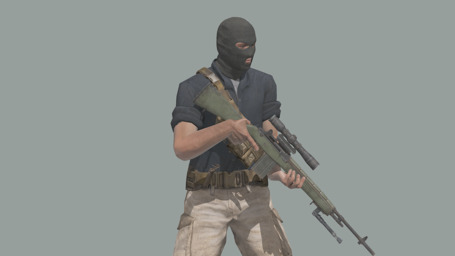
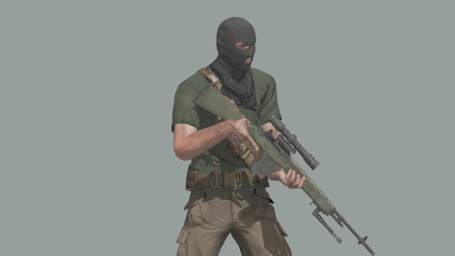
Various config and data updates

diff --git a/MU_ISAS/UnitsConfig.hpp b/MU_ISAS/UnitsConfig.hpp
@@ -20,8 +20,8 @@
 		scopeCurator = 2;
 		displayName = $STR_MU_units_islam_R1;
 		uniformClass = "U_MU_O_GuerillaGarment_grey";
-		linkedItems[] = {"V_TacVest_oli", "G_Balaclava_blk", "ItemMap", "ItemCompass", "ItemWatch", "ItemRadio"};
-		respawnLinkedItems[] = {"V_TacVest_oli", "G_Balaclava_blk", "ItemMap", "ItemCompass", "ItemWatch", "ItemRadio"};
+		linkedItems[] = {"V_MU_Chestrig_light_khk", "G_Balaclava_blk", "ItemMap", "ItemCompass", "ItemWatch", "ItemRadio"};
+		respawnLinkedItems[] = {"V_MU_Chestrig_light_khk", "G_Balaclava_blk", "ItemMap", "ItemCompass", "ItemWatch", "ItemRadio"};
 		weapons[] = {"arifle_AKM_F", "hgun_Rook40_F", "Throw", "Put"};
 		respawnweapons[] = {"arifle_AKM_F", "hgun_Rook40_F", "Throw", "Put"};
 		magazines[] = {"30Rnd_762x39_Mag_F", "30Rnd_762x39_Mag_F", "30Rnd_762x39_Mag_F", "30Rnd_762x39_Mag_F", "30Rnd_762x39_Mag_F", "30Rnd_762x39_Mag_F", "30Rnd_762x39_Mag_F", "16Rnd_9x21_Mag", "16Rnd_9x21_Mag", "16Rnd_9x21_Mag", "HandGrenade", "HandGrenade", "SmokeShell", "SmokeShellGreen", "Chemlight_red", "Chemlight_red"};
@@ -161,8 +161,8 @@
 		displayName = $STR_MU_units_islam_HAT;
 		uniformClass = "U_MU_O_GuerillaGarment3_olive";
 		backpack = "B_MU_IS_Carryall_khk_HAT";
-		linkedItems[] = {"V_TacChestrig_grn_F", "H_Bandanna_cbr", "ItemMap", "ItemCompass", "ItemWatch", "ItemRadio"};
-		respawnLinkedItems[] = {"V_TacChestrig_grn_F", "H_Bandanna_cbr", "ItemMap", "ItemCompass", "ItemWatch", "ItemRadio"};
+		linkedItems[] = {"V_MU_Chestrig_light_khk", "H_Bandanna_cbr", "ItemMap", "ItemCompass", "ItemWatch", "ItemRadio"};
+		respawnLinkedItems[] = {"V_MU_Chestrig_light_khk", "H_Bandanna_cbr", "ItemMap", "ItemCompass", "ItemWatch", "ItemRadio"};
 		weapons[] = {"arifle_AKM_F", "launch_O_Vorona_brown_F", "hgun_Rook40_F", "Throw", "Put"};
 		respawnweapons[] = {"arifle_AKM_F", "launch_O_Vorona_brown_F", "hgun_Rook40_F", "Throw", "Put"};
 		magazines[] = { "30Rnd_762x39_Mag_F", "30Rnd_762x39_Mag_F", "30Rnd_762x39_Mag_F", "30Rnd_762x39_Mag_F", "30Rnd_762x39_Mag_F", "30Rnd_762x39_Mag_F", "Vorona_HEAT", "16Rnd_9x21_Mag", "16Rnd_9x21_Mag", "16Rnd_9x21_Mag", "HandGrenade", "SmokeShell", "SmokeShellGreen"};
@@ -182,8 +182,8 @@
 		secondaryAmmoCoef = 0.5;
 		uniformClass = "U_MU_O_GuerillaGarment_grey";
 		backpack = "B_MU_IS_AssaultPack_dgtl_AA";
-		linkedItems[] = {"V_TacVest_camo", "H_Bandanna_sand", "G_Bandanna_tan", "ItemMap", "ItemCompass", "ItemWatch", "ItemRadio"};
-		respawnLinkedItems[] = {"V_TacVest_camo", "H_Bandanna_sand", "G_Bandanna_tan", "ItemMap", "ItemCompass", "ItemWatch", "ItemRadio"};
+		linkedItems[] = {"V_MU_Chestrig_light_khk", "H_Bandanna_sand", "G_Bandanna_tan", "ItemMap", "ItemCompass", "ItemWatch", "ItemRadio"};
+		respawnLinkedItems[] = {"V_MU_Chestrig_light_khk", "H_Bandanna_sand", "G_Bandanna_tan", "ItemMap", "ItemCompass", "ItemWatch", "ItemRadio"};
 		weapons[] = {"arifle_AKM_F", "launch_B_Titan_olive_F", "hgun_Rook40_F", "Throw", "Put"};
 		respawnweapons[] = {"arifle_AKM_F", "launch_B_Titan_olive_F", "hgun_Rook40_F", "Throw", "Put"};
 		magazines[] = { "30Rnd_762x39_Mag_F", "30Rnd_762x39_Mag_F", "30Rnd_762x39_Mag_F", "30Rnd_762x39_Mag_F", "30Rnd_762x39_Mag_F", "30Rnd_762x39_Mag_F", "Titan_AA", "16Rnd_9x21_Mag", "16Rnd_9x21_Mag", "16Rnd_9x21_Mag", "HandGrenade", "SmokeShell", "SmokeShellGreen"};
@@ -206,8 +206,8 @@
 		engineer = 1;
 		uniformClass = "U_MU_O_GuerillaGarment_tank";
 		backpack = "B_MU_IS_TacticalPack_blk_engineer";
-		linkedItems[] = {"V_Chestrig_rgr", "H_ShemagOpen_khk", "G_Lowprofile", "ItemMap", "ItemCompass", "ItemWatch", "ItemRadio"};
-		respawnLinkedItems[] = {"V_Chestrig_rgr", "H_ShemagOpen_khk", "G_Lowprofile", "ItemMap", "ItemCompass", "ItemWatch", "ItemRadio"};
+		linkedItems[] = {"V_MU_Chestrig_light_rgr", "H_ShemagOpen_khk", "G_Lowprofile", "ItemMap", "ItemCompass", "ItemWatch", "ItemRadio"};
+		respawnLinkedItems[] = {"V_MU_Chestrig_light_rgr", "H_ShemagOpen_khk", "G_Lowprofile", "ItemMap", "ItemCompass", "ItemWatch", "ItemRadio"};
 		weapons[] = {"arifle_AKM_F", "hgun_Rook40_F", "Throw", "Put"};
 		respawnweapons[] = {"arifle_AKM_F", "hgun_Rook40_F", "Throw", "Put"};
 		magazines[] = {"30Rnd_762x39_Mag_F", "30Rnd_762x39_Mag_F", "30Rnd_762x39_Mag_F", "30Rnd_762x39_Mag_F", "30Rnd_762x39_Mag_F", "30Rnd_762x39_Mag_F", "30Rnd_762x39_Mag_F", "16Rnd_9x21_Mag", "16Rnd_9x21_Mag", "16Rnd_9x21_Mag", "HandGrenade", "HandGrenade", "SmokeShell", "SmokeShellGreen", "Chemlight_red", "Chemlight_red"};
@@ -250,7 +250,7 @@
 		displayName = "$STR_B_soldier_M_F0";
 		role = "Marksman";
 		cost = 250000;
-		uniformClass = "U_OG_Guerilla2_1";
+		uniformClass = "U_MU_O_GuerillaGarment3_green";
 		linkedItems[] = {"V_BandollierB_cbr", "G_Balaclava_blk", "ItemMap", "ItemCompass", "ItemWatch", "ItemRadio"};
 		respawnLinkedItems[] = {"V_BandollierB_cbr", "G_Balaclava_blk", "ItemMap", "ItemCompass", "ItemWatch", "ItemRadio"};
 		weapons[] = {"srifle_DMR_06_olive_KHSold_BI_MU_F", "hgun_Rook40_F", "Throw", "RangeFinder", "Put"};

diff --git a/MU_CIVILIAN/config.cpp b/MU_CIVILIAN/config.cpp
@@ -20,31 +20,13 @@ class CfgPatches
 		requiredAddons[] = {"MU_core","MU_asset","A3_Soft_F","A3_Characters_F","A3_Weapons_F"};
 	};
 };
-#define MU_PREVIEW(x) 	editorPreview = "\MU\MU_CIVILIAN\data\preview\##x##.jpg"
+#define MU_PREVIEW(x) 	editorPreview = \MU\MU_CIVILIAN\data\preview\##x##.jpg
 
 class CfgEditorSubcategories
 {
 	class MU_EdSubcat_Personnel_Persan
 	{
 		displayName = $STR_MU_units_Edensubcat_Persan;
-	};
-};
-
-class CfgWeapons
-{
-	class SMG_02_F;
-	class SMG_02_flash_MU_police_F : SMG_02_F
-	{
-		scope = 1;
-		scopeCurator = 1;
-		class LinkedItems
-		{
-			class LinkedItemsAcc
-			{
-				slot = "PointerSlot";
-				item = "acc_flashlight";
-			};
-		};
 	};
 };
 
@@ -61,8 +43,8 @@ class CfgVehicles
 		backpack = "";
 		linkedItems[] = {"V_TacVest_blk_POLICE", "H_Cap_police", "G_Shades_Black", "ItemGPS", "ItemMap", "ItemCompass", "ItemWatch", "ItemRadio"};
 		respawnLinkedItems[] = {"V_TacVest_blk_POLICE", "H_Cap_police", "G_Shades_Black", "ItemGPS", "ItemMap", "ItemCompass", "ItemWatch", "ItemRadio"};
-		weapons[] = {"SMG_02_flash_MU_police_F","hgun_P07_F","Binocular","Throw","Put"};
-		respawnweapons[] = {"SMG_02_flash_MU_police_F","hgun_P07_F","Binocular","Throw","Put"};
+		weapons[] = {"MU_SMG_02_flash","hgun_P07_F","Binocular","Throw","Put"};
+		respawnweapons[] = {"MU_SMG_02_flash","hgun_P07_F","Binocular","Throw","Put"};
 		magazines[] = {"30Rnd_9x21_Mag","30Rnd_9x21_Mag","30Rnd_9x21_Mag","30Rnd_9x21_Mag","30Rnd_9x21_Mag","16Rnd_9x21_Mag","16Rnd_9x21_Mag","16Rnd_9x21_Mag","smokeshellblue","smokeshellblue","MiniGrenade","Chemlight_blue","Chemlight_blue"};
 		Respawnmagazines[] = {"30Rnd_9x21_Mag","30Rnd_9x21_Mag","30Rnd_9x21_Mag","30Rnd_9x21_Mag","30Rnd_9x21_Mag","16Rnd_9x21_Mag","16Rnd_9x21_Mag","16Rnd_9x21_Mag","smokeshellblue","smokeshellblue","MiniGrenade","Chemlight_blue","Chemlight_blue"};
 		MU_PREVIEW(C_MU_man_police_officer_F);

diff --git a/MU_DOC_DIVER/config.cpp b/MU_DOC_DIVER/config.cpp
@@ -14,7 +14,7 @@ class CfgPatches
 		requiredAddons[] = {"MU_core", "A3_Characters_F"};
 	};
 };
-#define MU_PREVIEW(x) 	editorPreview = "\MU\MU_DOC_DIVER\data\preview\##x##.jpg"
+#define MU_PREVIEW(x) 	editorPreview = \MU\MU_DOC_DIVER\data\preview\##x##.jpg
 
 class CfgVehicles
 {
@@ -56,17 +56,36 @@ class CfgVehicles
 			};
 		};
 	};
+	class B_FieldPack_green_F;
+	class B_MU_DD_FieldPack_green_medic : B_FieldPack_green_F
+	{
+		scope = 1;
+		scopeCurator = 1;
+		class TransportItems
+		{
+			class _xx_Medikit
+			{
+				name = "Medikit";
+				count = 1;
+			};
+			class _xx_FirstAidKit
+			{
+				name = "FirstAidKit";
+				count = 10;
+			};
+		};
+	};
 	class B_diver_F;
     class B_MU_DD_diver_medic_F : B_diver_F
 	{
 		scope = 2;
 		scopeCurator = 2;
 		displayName = $STR_MU_units_Diver_medic;
-		//cost = 100000;
-		cost = 300000;
 		icon = "iconManMedic";
+		role = "CombatLifeSaver";
 		picture = "pictureHeal";
 		attendant = 1;
+		camouflage = 1.6;
 		backpack = "B_MU_DD_FieldPack_blk_medic";
 		MU_PREVIEW(B_MU_DD_diver_medic_F);
 	};
@@ -77,9 +96,11 @@ class CfgVehicles
 		scopeCurator = 2;
 		displayName = $STR_MU_units_Diver_medic;
 		icon = "iconManMedic";
+		role = "CombatLifeSaver";
 		picture = "pictureHeal";
 		attendant = 1;
-		backpack = "B_MU_DD_FieldPack_oli_medic";
+		camouflage = 1.6;
+		backpack = "B_MU_DD_FieldPack_green_medic";
 		MU_PREVIEW(O_MU_DD_diver_medic_F);
 	};
 	class I_diver_F;
@@ -89,8 +110,10 @@ class CfgVehicles
 		scopeCurator = 2;
 		displayName = $STR_MU_units_Diver_medic;
 		icon = "iconManMedic";
+		role = "CombatLifeSaver";
 		picture = "pictureHeal";
 		attendant = 1;
+		camouflage = 1.6;
 		backpack = "B_MU_DD_FieldPack_blk_medic";
 		MU_PREVIEW(I_MU_DD_diver_medic_F);
 	};

diff --git a/MU_MILITIA/config.cpp b/MU_MILITIA/config.cpp
@@ -57,7 +57,7 @@ class CfgPatches
 		requiredAddons[] = {"MU_core","MU_vehicles","A3_Characters_F","A3_Weapons_F","A3_Soft_F","A3_Static_F","A3_armor_F","A3_boat_F","A3_Air_F"};
 	};
 };
-#define MU_PREVIEW(x) 	editorPreview = "\MU\MU_MILITIA\data\preview\##x##.jpg"
+#define MU_PREVIEW(x) 	editorPreview = \MU\MU_MILITIA\data\preview\##x##.jpg
 
 class CfgMarkers
 {

diff --git a/MU_ISAS/config.cpp b/MU_ISAS/config.cpp
@@ -39,7 +39,7 @@ class CfgPatches
 		requiredAddons[] = {"MU_core","MU_asset","A3_Characters_F","A3_Weapons_F","A3_Soft_F","A3_Static_F","A3_boat_F"};
 	};
 };
-#define MU_PREVIEW(x) 	editorPreview = "\MU\MU_ISAS\data\preview\##x##.jpg"
+#define MU_PREVIEW(x) 	editorPreview = \MU\MU_ISAS\data\preview\##x##.jpg
 
 class CfgFactionClasses
 {

diff --git a/MU_GREENDAGGERS/config.cpp b/MU_GREENDAGGERS/config.cpp
@@ -24,7 +24,7 @@ class CfgPatches
 		requiredAddons[] = {"MU_core", "MU_asset", "A3_Characters_F", "A3_Weapons_F"};
 	};
 };
-#define MU_PREVIEW(x) 	editorPreview = "\MU\MU_GREENDAGGERS\data\preview\##x##.jpg"
+#define MU_PREVIEW(x) 	editorPreview = \MU\MU_GREENDAGGERS\data\preview\##x##.jpg
 
 class CfgVehicleClasses
 {

diff --git a/MU_VEHICLES/CfgVehicles.hpp b/MU_VEHICLES/CfgVehicles.hpp
@@ -546,11 +546,7 @@ class CfgVehicles {
 		faction="OPF_T_F";
 		crew="O_T_crew_F";
 		typicalCargo[] = {"O_T_Soldier_F"};
-		textureList[]=
-		{
-			"GreenHex",
-			1
-		};
+		textureList[] = {"GreenHex",1};
 		hiddenSelectionsTextures[]=
 		{
 			"a3\Armor_F_Exp\APC_Wheeled_02\Data\APC_Wheeled_02_ext_01_ghex_CO.paa",

diff --git a/MU_SF/config.cpp b/MU_SF/config.cpp
@@ -19,7 +19,7 @@ class CfgPatches
 		requiredAddons[] = {"MU_core", "A3_Characters_F","A3_Weapons_F"};
 	};
 };
-#define MU_PREVIEW(x) 	editorPreview = "\MU\MU_SF\data\preview\##x##.jpg"
+#define MU_PREVIEW(x) 	editorPreview = \MU\MU_SF\data\preview\##x##.jpg
 class CfgVehicleClasses
 {
 	class MU_spefor_B

diff --git a/MU_DIVERS/config.cpp b/MU_DIVERS/config.cpp
@@ -25,7 +25,7 @@ class CfgPatches
 		requiredAddons[] = {"MU_core", "A3_Characters_F","A3_Weapons_F"};
 	};
 };
-#define MU_PREVIEW(x) 	editorPreview = "\MU\MU_DIVERS\data\preview\##x##.jpg"
+#define MU_PREVIEW(x) 	editorPreview = \MU\MU_DIVERS\data\preview\##x##.jpg
 	
 class CfgVehicleClasses
 {

diff --git a/MU_VEHICLES/config.cpp b/MU_VEHICLES/config.cpp
@@ -55,6 +55,6 @@ class CfgPatches {
 	};
 };
 
-#define MU_PREVIEW(x) 	editorPreview = "\MU\MU_VEHICLES\data\preview\##x##.jpg"
+#define MU_PREVIEW(x) 	editorPreview = \MU\MU_VEHICLES\data\preview\##x##.jpg
 
 #include "CfgVehicles.hpp"
